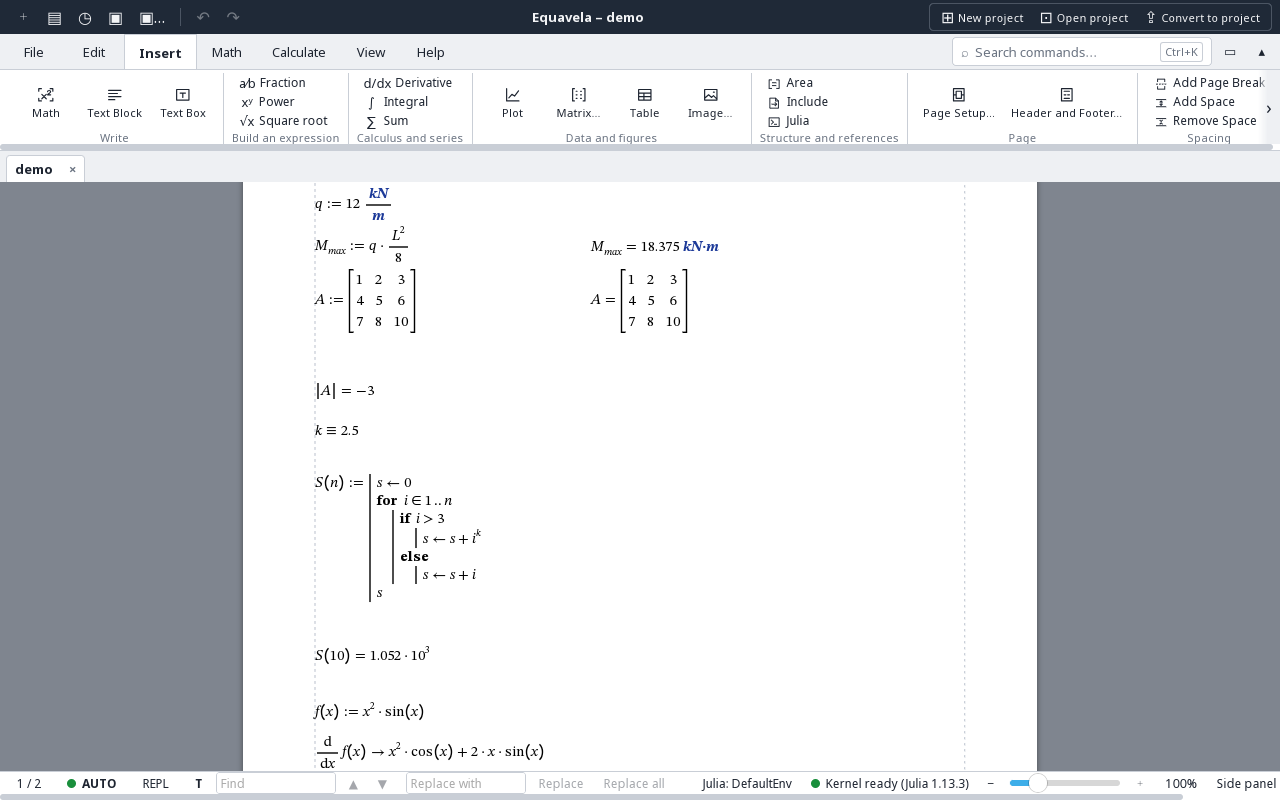
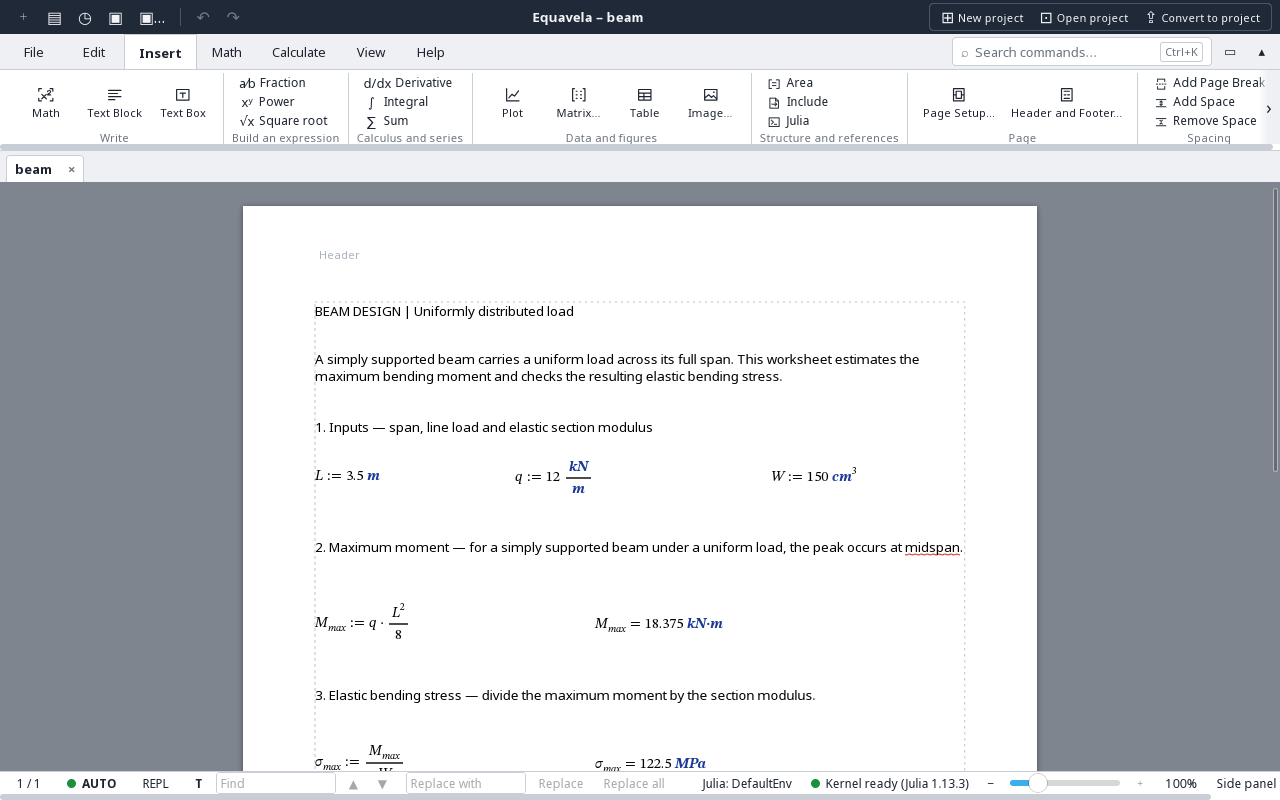
Show a documented beam design worksheet

diff --git a/index.html b/index.html
@@ -1,7 +1,7 @@
 <!doctype html>
 <html lang="en"><head><meta charset="utf-8"><meta name="viewport" content="width=device-width, initial-scale=1"><meta name="description" content="Equavela is a scientific computing workspace for live engineering worksheets, powered by Julia."><title>Equavela — Scientific computing workspace</title><link rel="icon" href="assets/equavela-mark.svg"><link rel="stylesheet" href="style.css"></head>
 <body><header><a class="brand" href="#top"><img src="assets/equavela-logo.svg" alt="Equavela"></a><nav><a href="#workspace">Workspace</a><a href="#examples">Examples</a><a href="#documentation">Documentation</a></nav></header>
-<main id="top"><section class="hero"><div><p class="eyebrow">Scientific computing workspace</p><h1>Work through ideas.<br><span>See the whole calculation.</span></h1><p class="lead">Equavela brings live mathematics, explanatory text and visualizations together in an engineering worksheet, powered by Julia.</p><a class="button" href="#workspace">Explore the workspace <span aria-hidden="true">↗</span></a><p class="note">Equavela is under active development.</p></div><div class="hero-card"><img src="assets/worksheet-example.png" alt="An Equavela worksheet showing a beam calculation with units, a matrix, a program and a symbolic derivative"><p>A live worksheet combining units, matrices, programming and symbolic mathematics.</p></div></section>
+<main id="top"><section class="hero"><div><p class="eyebrow">Scientific computing workspace</p><h1>Work through ideas.<br><span>See the whole calculation.</span></h1><p class="lead">Equavela brings live mathematics, explanatory text and visualizations together in an engineering worksheet, powered by Julia.</p><a class="button" href="#workspace">Explore the workspace <span aria-hidden="true">↗</span></a><p class="note">Equavela is under active development.</p></div><div class="hero-card"><img src="assets/worksheet-example.png" alt="An Equavela worksheet documenting a simply supported beam calculation with units, equations and explanatory text"><p>A documented beam calculation, with assumptions, units and results together.</p></div></section>
 <section id="workspace" class="section"><p class="eyebrow">The workspace</p><h2>Calculations with context.</h2><p class="intro">Build a worksheet that tells the story of your work, from definitions and units to results, plots and explanations.</p><div class="features"><article><h3>Live mathematics</h3><p>Write expressions, define variables and functions, and see results update as your worksheet changes.</p></article><article><h3>Units and arrays</h3><p>Work with physical units, matrices and vectors alongside your calculations.</p></article><article><h3>Julia and symbolics</h3><p>Use Julia in your worksheets and explore symbolic operations with SymPy.</p></article><article><h3>Visual explanations</h3><p>Combine math, text, plots, tables and images in a document ready to share.</p></article></div></section>
-<section id="examples" class="section examples"><div><p class="eyebrow">Worksheet examples</p><h2>From equations to engineering.</h2><p class="intro">Explore a sample worksheet and see how Equavela keeps the assumptions and calculations together.</p></div><article class="example"><div class="formula"><span>Uniformly loaded beam</span><strong>M<sub>max</sub> = q · L² / 8</strong><small>Length · load · bending moment</small></div><div><h3>Simply supported beam</h3><p>Define a span and a distributed load with units, then calculate the maximum bending moment. The sample also demonstrates matrices, functions and calculus.</p><a href="assets/beam.eqv" download>Download the example worksheet ↓</a></div></article><div class="ideas"><article><h3>Explore a system</h3><p>Arrange definitions and equations in reading order, then evaluate the quantities that matter.</p></article><article><h3>Explain a result</h3><p>Place text and plots next to the mathematics to make the reasoning easy to follow.</p></article><article><h3>Extend with Julia</h3><p>Bring numerical code and worksheet calculations into the same project.</p></article></div></section>
+<section id="examples" class="section examples"><div><p class="eyebrow">Worksheet examples</p><h2>From equations to engineering.</h2><p class="intro">Explore a sample worksheet and see how Equavela keeps the assumptions and calculations together.</p></div><article class="example"><div class="formula"><span>Uniformly loaded beam</span><strong>M<sub>max</sub> = q · L² / 8</strong><small>Length · load · bending moment</small></div><div><h3>Simply supported beam</h3><p>Define a span and a distributed load with units, then calculate the maximum bending moment. The worksheet explains its assumptions, calculates bending stress and compares it with an allowable value.</p><a href="assets/beam.eqv" download>Download the example worksheet ↓</a></div></article><div class="ideas"><article><h3>Explore a system</h3><p>Arrange definitions and equations in reading order, then evaluate the quantities that matter.</p></article><article><h3>Explain a result</h3><p>Place text and plots next to the mathematics to make the reasoning easy to follow.</p></article><article><h3>Extend with Julia</h3><p>Bring numerical code and worksheet calculations into the same project.</p></article></div></section>
 <section id="documentation" class="section docs"><div><p class="eyebrow">Learn the workspace</p><h2>Guidance close at hand.</h2><p class="intro">The built-in manual covers the workspace, mathematical editing, units, functions, projects and more.</p></div><img src="assets/manual-window.png" alt="The Equavela manual showing its chapter navigation and search"></section></main><footer><img src="assets/equavela-mark.svg" alt=""><span>Equavela · Scientific computing workspace</span><span>Under active development</span></footer></body></html>
